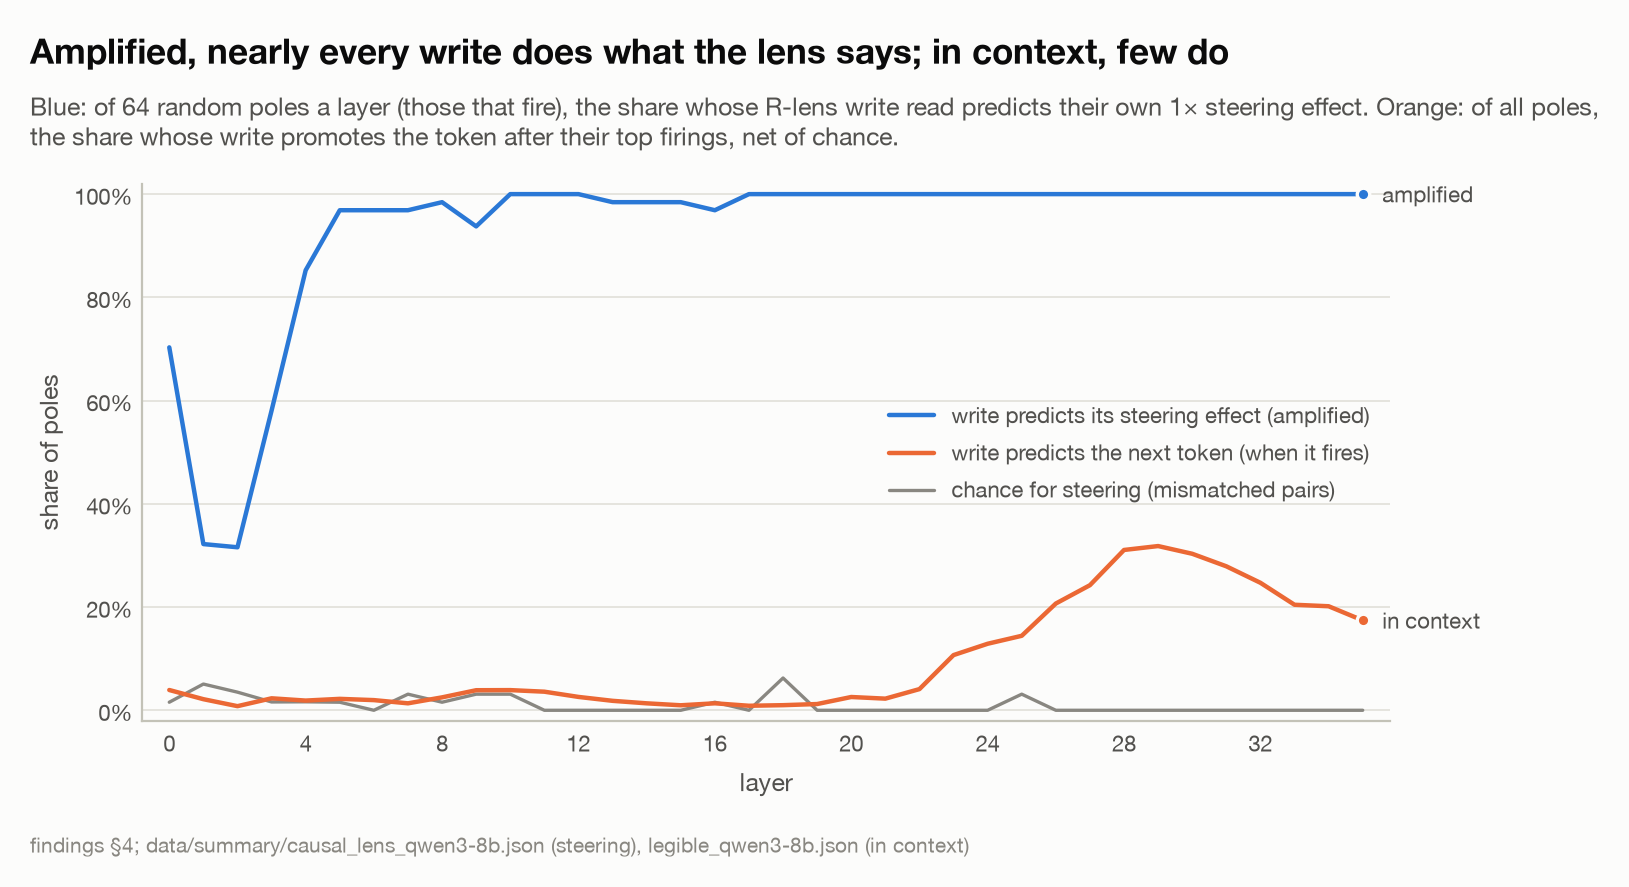
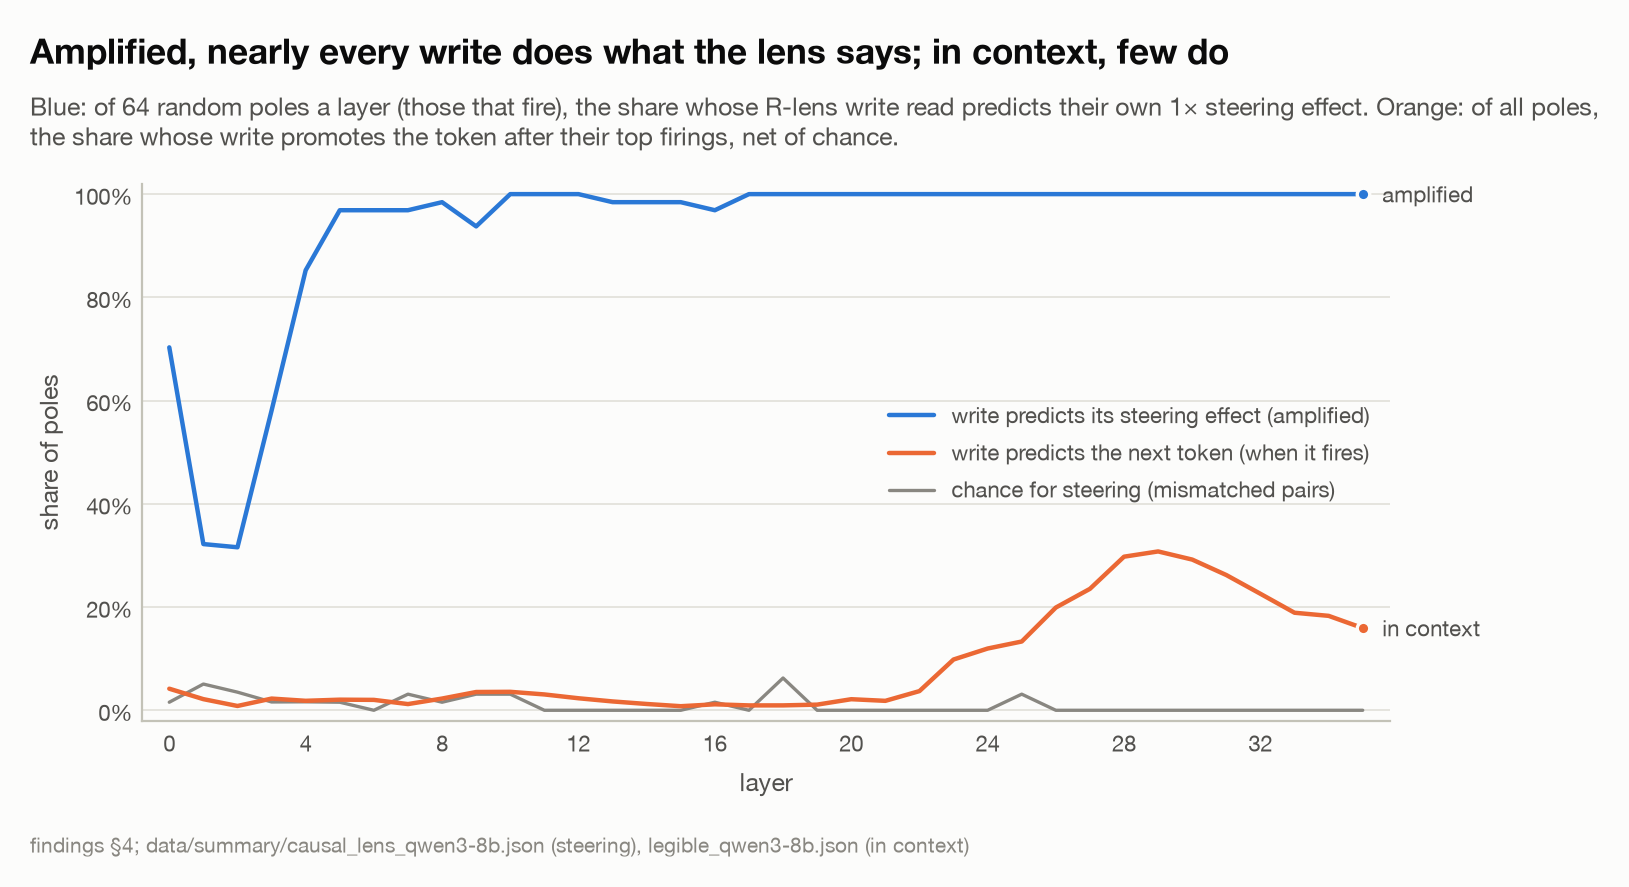
Figures from this release's tables

diff --git a/docs/figures/README.md b/docs/figures/README.md
@@ -72,13 +72,13 @@ At L0, 32% of the S-lens read's top 10 are exact drivers, and 4-11% at L1-L4; th
 
 ![Most mid-network poles are dark: they fire, but no token-level test reads them](12_census.png)
 
-Shares of each layer's poles: some weight-only read passes, only a token detector, dark (fires but nothing passes), or silent. Over all layers 22% of poles have a passing read and 57% are dark; dark averages 82% of L13-L20's poles.
+Shares of each layer's poles: some weight-only read passes, only a token detector, dark (fires but nothing passes), or silent. Over all layers 20% of poles have a passing read and 64% are dark; dark averages 87% of L13-L20's poles.
 
 ## 13. A read's signal holds down to rank 64, not just its top tokens
 
 ![A read's signal holds down to rank 64, not just its top tokens](13_rank_depth.png)
 
-Signal fades with rank but ranks 49-64 still run several times above a mismatched pole (L28's write read 29×, L12's read 6×), which is why the catalog keeps the top 64 of every read. L4's S-lens ratio is noisy: its mismatched rate is near zero.
+Signal fades with rank but ranks 49-64 still run several times above a mismatched pole (L28's write read 22×, L12's read 6×), which is why the catalog keeps the top 64 of every read. L4's S-lens ratio is noisy: its mismatched rate is near zero.
 
 ## 14. Labels written blind: lens reads predict what a pole promotes, contexts where it fires
 
@@ -102,13 +102,13 @@ Margins over a control head, by band. Solid bars (S-lens input) beat pale ones (
 
 ![Late heads' OV reads predict the next token; mid-network heads are mostly dark](17_head_census.png)
 
-Shares of each layer's heads: an OV read passes, only a token mode or attention pattern, or dark. `ov_R` (the attended token's column predicts the next token) passes for 27% of L28-L35's heads, half at L33; the S-side reads (`ov_S`, `qk_S`) never separate a head from its layer. Dark is 56% of heads, 78% at L9-L12 and 74% at L13-L20.
+Shares of each layer's heads: an OV read passes, only a token mode or attention pattern, or dark. `ov_R` (the attended token's column predicts the next token) passes for 26% of L28-L35's heads, half at L33; the S-side reads (`ov_S`, `qk_S`) never separate a head from its layer. Dark is 63% of heads, 79% at L9-L12 and 81% at L13-L20.
 
 ## 18. Qwen3-8B and Gemma 4 12B read alike: inputs early, writes late, a dark middle
 
 ![Qwen3-8B and Gemma 4 12B read alike: inputs early, writes late, a dark middle](18_two_models.png)
 
-Both models against relative depth (layer / last layer). Left: median r between the R-lens read of a pole's write and its 1× steering effect. In Qwen3-8B it predicts steering from L4 (0.45-0.50 at L4-L8); in Gemma 4 12B it stays at 0.09 or less through L10 (relative depth 0.21), jumps to 0.40 at L11 and reaches 0.9 at L34 (Qwen3-8B: L22). The logit lens (dashed) trails the R-lens in both until late. Right: a weight-only read passes for 80% of Qwen3-8B's L0 poles and 84-88% of Gemma's L0-L1, for at most 7% of Qwen3-8B's L13-L20 and 4% of Gemma's L15-L30, and again late, mostly through the R-lens write (39% at Qwen3-8B's L29, 41% at Gemma's L33). Dark peaks mid-network: 86% at Qwen3-8B's L18 and 85% at Gemma's L22 (relative depth 0.51 and 0.47).
+Both models against relative depth (layer / last layer). Left: median r between the R-lens read of a pole's write and its 1× steering effect. In Qwen3-8B it predicts steering from L4 (0.45-0.50 at L4-L8); in Gemma 4 12B it stays at 0.09 or less through L10 (relative depth 0.21), jumps to 0.40 at L11 and reaches 0.9 at L34 (Qwen3-8B: L22). The logit lens (dashed) trails the R-lens in both until late. Right: a weight-only read passes for 85% of Qwen3-8B's L0 poles and 88-95% of Gemma's L0-L1, for at most 8% of Qwen3-8B's L13-L20 and 3% of Gemma's L15-L30, and again late, mostly through the R-lens write (38% at Qwen3-8B's L29, 40% at Gemma's L33). Dark peaks mid-network: 91% at Qwen3-8B's L18 and 91% at Gemma's L22 (relative depth 0.51 and 0.47).
 
 ## 19. Gemma 4 12B: a neuron's write, read through the R-lens, predicts steering from L11
 
@@ -120,7 +120,7 @@ Median r between each lens's write read and the measured effect, by layer, as fi
 
 ![Gemma 4 12B: inputs read early, writes late, and most of the middle is dark](20_gemma_census.png)
 
-The input side reads early: the S-lens read names the firing token for 84-88% of L0-L1's poles, falls to 0.5% at L9, and rises again at L10-L13 (23-57%), where the S-lens write also holds for 10-22% at L11-L13. The write side reads late: the R-lens write predicts the next token after a firing from L32, for 22-37% of poles at L33-L40, falling to 8-14% at L44-L47. In between, 54-85% of L16-L31's poles are dark. Over all layers 19% of poles pass some test and 52% are dark (Qwen3-8B: 22% and 57%).
+The input side reads early: the S-lens read names the firing token for 88-95% of L0-L1's poles, falls to 0.6% at L9, and rises again at L10-L13 (33-62%), where the S-lens write also holds for 10-21% at L11-L13. The write side reads late: the R-lens write predicts the next token after a firing from L32, for 22-36% of poles at L33-L40, falling to 7-13% at L44-L47. In between, 66-91% of L16-L31's poles are dark. Over all layers 20% of poles pass some test and 60% are dark (Qwen3-8B: 22% and 57%).
 
 ## 21. The S-lens's image read is a projection; an optimised read makes the neuron fire
 
@@ -138,7 +138,7 @@ Three poles from each six-layer band from L0 to L23, those with the strongest re
 
 ![Image labels hold on the text side from L12; sound labels only a little](23_crossmodal.png)
 
-Of 253,749 poles with an image label, the label's words fire the pole for 8% at L0-L11 and 42% at L12-L23 (5% by chance), the text R-lens writes it for up to 19% (L12-L23), the text S-lens reads it for 7-10%. Audio labels pass 6-13% by band and test. 18 of 45,138 poles with both labels pass all three text tests for both (independent lists would share 1.8): places and peoples with their language, such as mosques and Arabic, pagodas and Mandarin, tacos and Spanish.
+Of 253,785 poles with an image label, the label's words fire the pole for 8% at L0-L11 and 42% at L12-L23 (5% by chance), the text R-lens writes it for up to 19% (L12-L23), the text S-lens reads it for 7-10%. Audio labels pass 6-12% by band and test. 19 of 48,497 poles with both labels pass all three text tests for both (independent lists would share 2.0): places and peoples with their language, such as mosques and Arabic, pagodas and Mandarin, tacos and Spanish.
 
 ## 24. Single heads carry what an image shows into the text; for sound, none does
 
